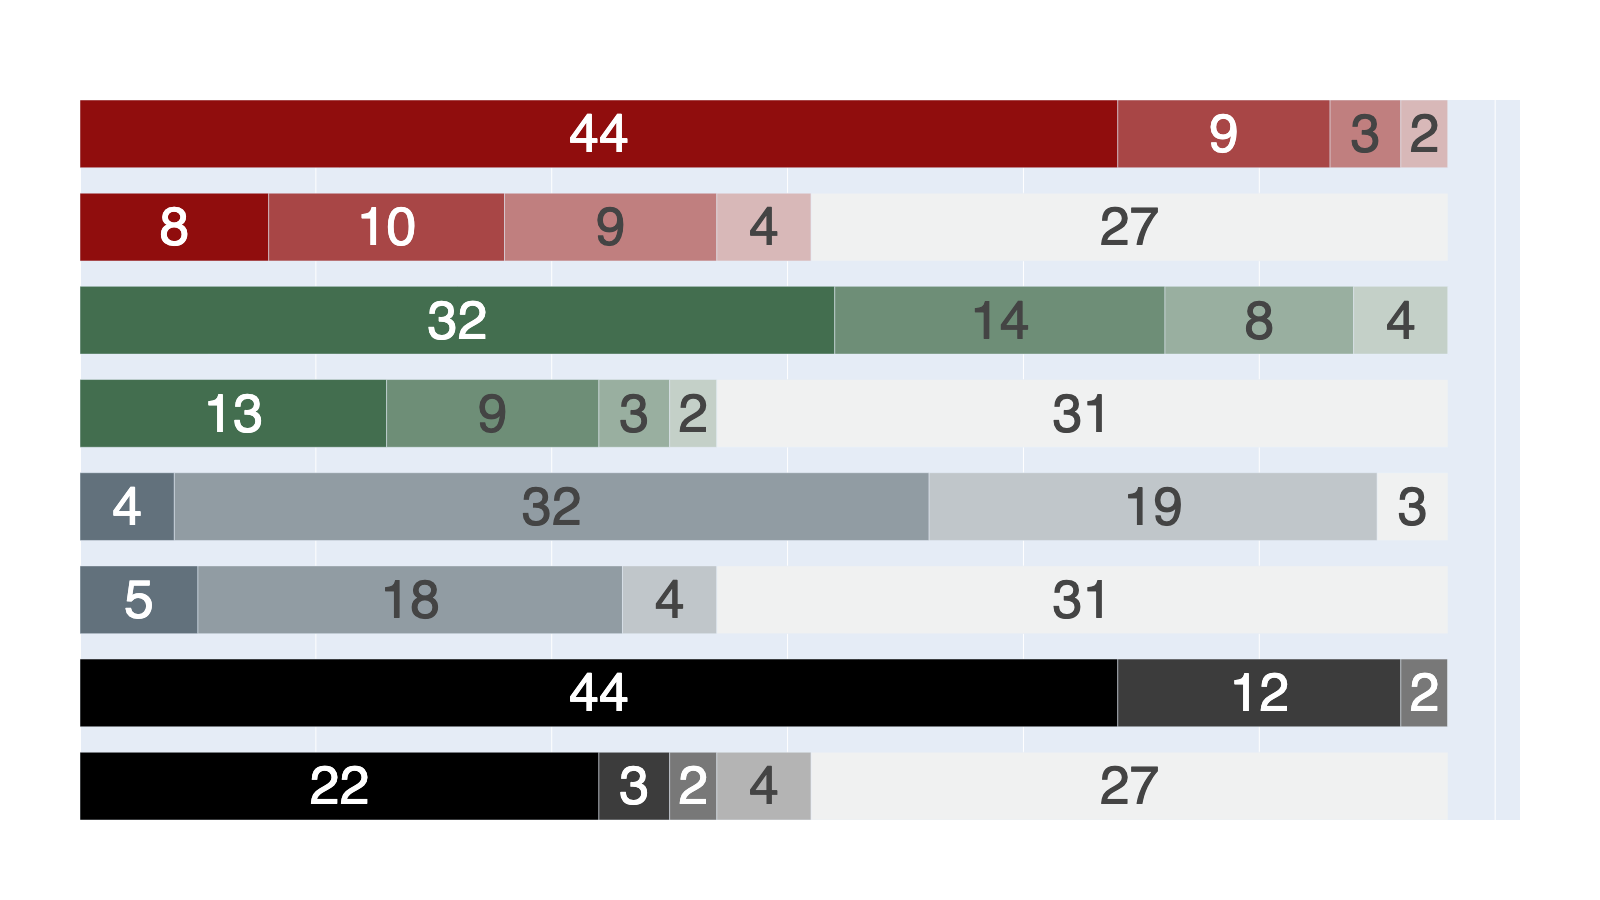
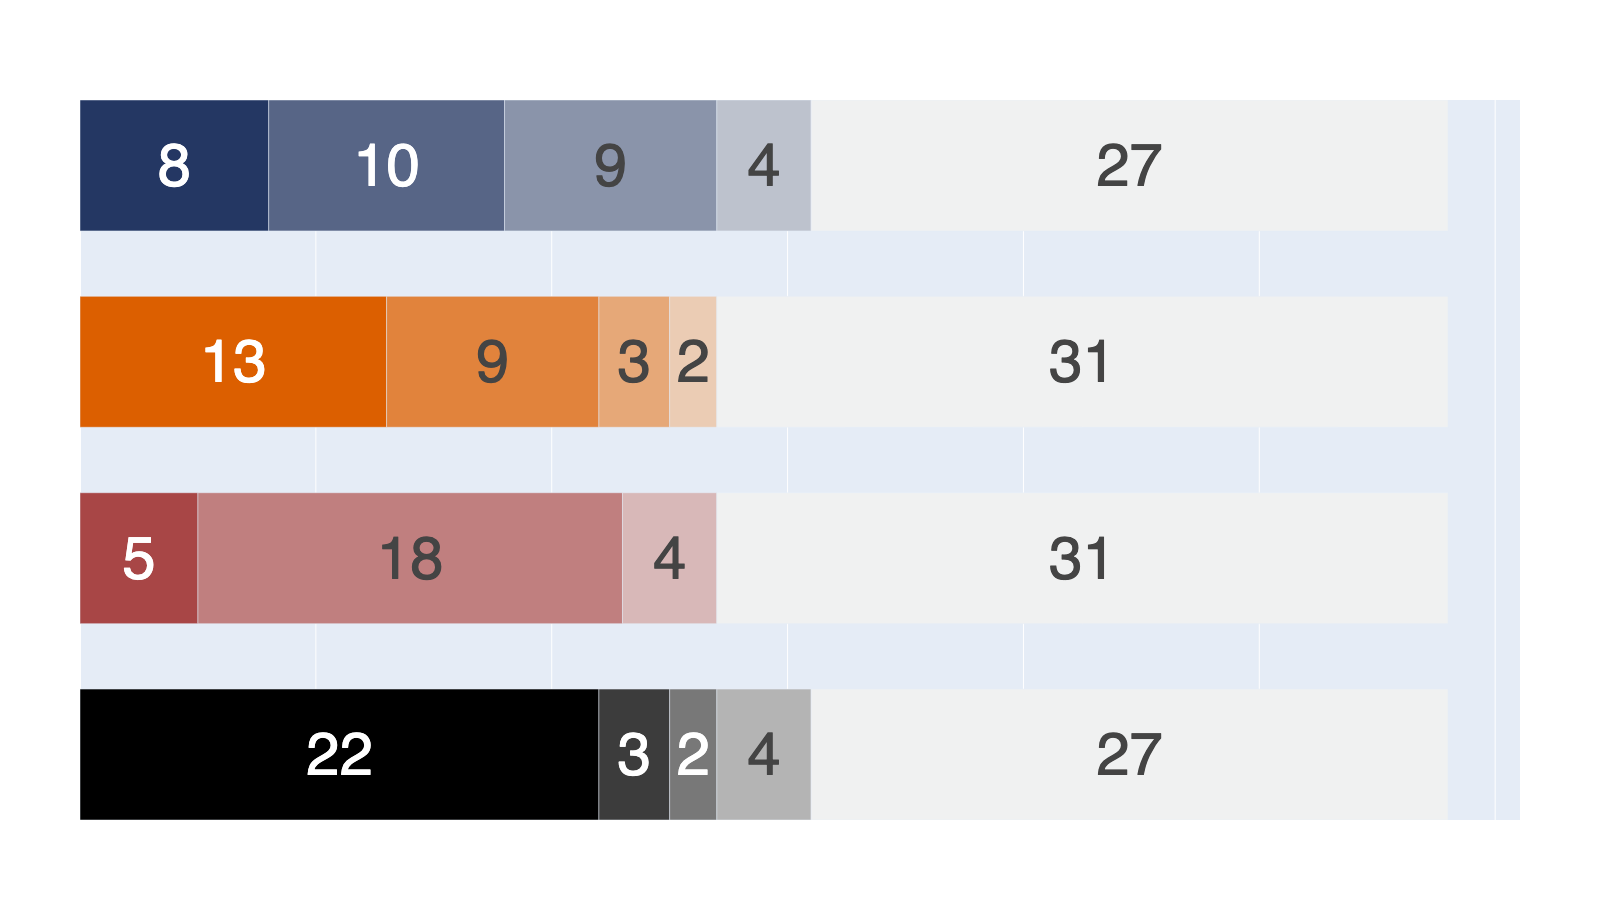
RARE workload

diff --git a/experiments/ocaml-experiments/Analysis.py b/experiments/ocaml-experiments/Analysis.py
@@ -6,13 +6,13 @@ from functools import partial
 # use this to adjust which plots are generated
 WORKLOADS = ['BST', 'RBT', 'STLC']
 STRATEGIES = [
-    'qcheckBespoke',
+    # 'qcheckBespoke',
     'qcheckType',
-    'crowbarBespoke',
+    # 'crowbarBespoke',
     'crowbarType',
-    'aflBespoke',
+    # 'aflBespoke',
     'aflType',
-    'baseBespoke',
+    # 'baseBespoke',
     'baseType',
 ]
 
@@ -49,6 +49,6 @@ if __name__ == "__main__":
     p.add_argument('--figures', help='path to folder for figures')
     args = p.parse_args()
 
-    results_path = f'{os.getcwd()}/{args.data}' if args.data else f'{os.getcwd()}/experiments/ocaml-experiments/parsed'
-    images_path = f'{os.getcwd()}/{args.figures}' if args.figures else f'{os.getcwd()}/experiments/ocaml-experiments/analyzed'
+    results_path = f'{os.getcwd()}/{args.data}' if args.data else '/Users/nikhil/Code/Research/etna/experiments/ocaml-experiments/parsed'
+    images_path = f'{os.getcwd()}/{args.figures}' if args.figures else '/Users/nikhil/Code/Research/etna/experiments/ocaml-experiments/analyzed'
     analyze(results_path, images_path)

diff --git a/experiments/ocaml-experiments/Collect.py b/experiments/ocaml-experiments/Collect.py
@@ -4,21 +4,23 @@ from benchtool.OCaml import OCaml
 from benchtool.Types import ReplaceLevel, TrialConfig, PBTGenerator
 from benchtool.Tasks import tasks
 
-DEFAULT_DIR = 'oc3'
+DEFAULT_DIR = 'oc4'
 REPLACE = False
 
-WORKLOADS = ['STLC']
+WORKLOADS = ['RARE']
 STRATEGIES : list[PBTGenerator] = [
     # PBTGenerator('qcheck', 'bespoke'),
     PBTGenerator('qcheck', 'type'),
     # PBTGenerator('crowbar', 'bespoke'),
-    # PBTGenerator('crowbar', 'type'),
+    PBTGenerator('crowbar', 'type'),
     # PBTGenerator('afl', 'bespoke'),
-    # PBTGenerator('afl', 'type'),
+    PBTGenerator('afl', 'type'),
+    # PBTGenerator('base', 'bespoke'),
+    PBTGenerator('base', 'type'),
 ]
 
 TRIALS = 10
-TIMEOUT = 65
+TIMEOUT = 605
 
 
 def collect(directory: str, workloads=WORKLOADS, strategies=STRATEGIES):

diff --git a/tool/benchtool/Plot.py b/tool/benchtool/Plot.py
@@ -84,17 +84,7 @@ def stacked_barchart_times(
             '#290001',  # dark brown
             '#000000',  # black
         ]
-        # paired color pallete
-        colors = [
-            '#000000',  # blue
-            '#000000',  # blue
-            '#334756',  # yellow
-            '#334756',  # yellow
-            '#436E4F',  # green
-            '#436E4F',  # green
-            '#900D0D',  # red
-            '#900D0D',  # red
-        ]
+
 
     extrapolated_colors = list(
         map(light_gradient, map(ImageColor.getrgb, colors), [len(limits) + 1] * len(colors)))

diff --git a/tool/benchtool/Analysis.py b/tool/benchtool/Analysis.py
@@ -11,6 +11,7 @@ from typing import Literal, Optional
 def parse_results(results: str) -> pd.DataFrame:
     entries = scandir_filter(results, os.path.isfile)
     entries = [e for e in entries if e.path.endswith('.json')]
+    print("Parsing through ", entries)
 
     df = pd.concat([pd.read_json(e.path, orient='records', typ='frame') for e in entries])
 
